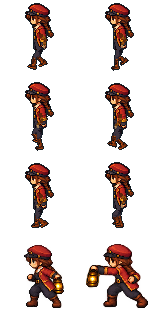
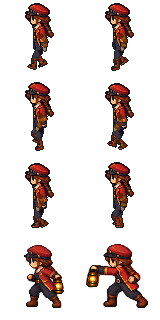
Restore Nell's fuller silhouette and increase her arm reach

diff --git a/src/art/nell-actor.ts b/src/art/nell-actor.ts
@@ -56,34 +56,34 @@ function surface(id:string,rings:SkinVertex[][],color:number,texture?:PixelTextu
 
 const acrossView=(direction:ActorDirection,c:number,s:number)=>direction==='front'?-c:direction==='back'?c:direction==='left'?-s:s;
 
-function limb(id:string,a:Point3,b:Point3,start:readonly[number,number],end:readonly[number,number],texture:PixelTexture,direction:ActorDirection):SpriteLayer {
+function limb(id:string,a:Point3,b:Point3,start:readonly[number,number],end:readonly[number,number],texture:PixelTexture,direction:ActorDirection,fullness=1):SpriteLayer {
   const dy=b.y-a.y,dz=b.z-a.z,d=Math.hypot(dy,dz),ny=-dz/d,nz=dy/d;
   const stations=[[-.09,.15],[0,.85],[.2,1.05],[.55,1],[.85,.98],[1,.8],[1.09,.15]] as const;
   return surface(id,stations.map(([t,round])=>Array.from({length:ROUND_SIDES},(_,i)=>{
     const angle=i/ROUND_SIDES*Math.PI*2,c=Math.cos(angle),s=Math.sin(angle),at=Math.max(0,Math.min(1,t));
-    const rx=(start[0]+(end[0]-start[0])*at)*round,ry=(start[1]+(end[1]-start[1])*at)*round;
+    const rx=(start[0]+(end[0]-start[0])*at)*round*fullness,ry=(start[1]+(end[1]-start[1])*at)*round*fullness;
     return {point:{x:a.x+c*rx,y:a.y+dy*t+s*ry*ny,z:a.z+dz*t+s*ry*nz},
       u:(acrossView(direction,c,s)+1)/2*texture.width,v:at*texture.height};
   })),0xffffff,texture);
 }
 
-function rounded(id:string,center:Point3,radii:readonly[number,number,number],color:number):SpriteLayer {
+function rounded(id:string,center:Point3,radii:readonly[number,number,number],color:number,scale=1):SpriteLayer {
   const rings=Array.from({length:7},(_,row)=>{
     const v=row/6,ring=Math.max(.04,Math.sin(v*Math.PI));
     return Array.from({length:ROUND_SIDES},(_,i)=>{const angle=i/ROUND_SIDES*Math.PI*2;
-      return {point:{x:center.x+Math.cos(angle)*radii[0]*ring,y:center.y+Math.sin(angle)*radii[1]*ring,z:center.z+Math.cos(v*Math.PI)*radii[2]},u:0,v:0};});
+      return {point:{x:center.x+Math.cos(angle)*radii[0]*ring*scale,y:center.y+Math.sin(angle)*radii[1]*ring*scale,z:center.z+Math.cos(v*Math.PI)*radii[2]*scale},u:0,v:0};});
   });
   return surface(id,rings,color);
 }
 
-function shoe(side:'left'|'right',foot:FootPose,texture:PixelTexture,direction:ActorDirection,scale:number):SpriteLayer {
+function shoe(side:'left'|'right',foot:FootPose,texture:PixelTexture,direction:ActorDirection,scale:number,widthScale:number):SpriteLayer {
   // Rounded heel, close ankle, raised instep and a low tapered toe. The two
   // sole contact endpoints remain at the accepted heel/toe pivots.
   const stations=[[-4,1.1,0,3.5],[-3.2,1.85,0,5.4],[-1.5,2.2,.05,6],[0,2.15,.15,5.4],[2.5,2.3,.15,4.1],[5.2,2.4,0,3.5],[6.9,1.6,0,2.8],[8,.3,0,1.5]] as const;
   const height=Math.max(...stations.map(station=>station[3]));
   const layer=surface(`${side}-foot`,stations.map(([y,width,bottom,top])=>Array.from({length:ROUND_SIDES},(_,i)=>{
     const angle=i/ROUND_SIDES*Math.PI*2,x=Math.cos(angle)*width,z=(bottom+top)/2+Math.sin(angle)*(top-bottom)/2;
-    const p=footPoint(foot,y*scale,z*scale);p.x+=x*scale;
+    const p=footPoint(foot,y*scale,z*scale);p.x+=x*scale*1.3*widthScale;
     const u=direction==='front'?-x/5+.5:direction==='back'?x/5+.5:direction==='left'?1-(y+4)/12:(y+4)/12;
     return {point:p,u:u*texture.width,v:(1-z/height)*texture.height};
   })),0xffffff,texture);
@@ -121,13 +121,13 @@ export function nellLayers(pose:ReferencePose,direction:ActorDirection,textures:
   // Native Nell has tall boots below the knee, rather than full-length trousers.
   const layers:SpriteLayer[]=[];
   for(const side of ['left','right'] as const){
-    const leg=pose[side],arm=pose.arms[side],inside=side==='right'?-1:1;
-    layers.push(limb(`${side}-thigh`,leg.hip,leg.knee,[2.8,2.6],[1.9,1.9],trousers,direction),
-      limb(`${side}-shin`,leg.knee,leg.ankle,[1.95,1.85],[1.7,1.55],boot,direction),shoe(side,leg.foot,boot,direction,pose.proportions.footScale),
-      limb(`${side}-upper-arm`,arm.shoulder,arm.elbow,[2.1,2.05],[1.6,1.55],sleeve,direction),
-      limb(`${side}-forearm`,arm.elbow,arm.wrist,[1.65,1.55],[1.2,1.15],sleeve,direction),
-      rounded(`${side}-hand`,arm.grip,[1.45,1.3,1.65],0xc59a68),
-      rounded(`${side}-hand`,{x:arm.grip.x+inside*1.1,y:arm.grip.y+.7,z:arm.grip.z+.2},[.65,.75,.85],0xb38758));
+    const leg=pose[side],arm=pose.arms[side],inside=side==='right'?-1:1,{armWidth,legWidth}=pose.proportions;
+    layers.push(limb(`${side}-thigh`,leg.hip,leg.knee,[4,3.5],[2.6,2.5],trousers,direction,legWidth),
+      limb(`${side}-shin`,leg.knee,leg.ankle,[2.5,2.25],[2.15,1.9],boot,direction,legWidth),shoe(side,leg.foot,boot,direction,pose.proportions.footScale,legWidth),
+      limb(`${side}-upper-arm`,arm.shoulder,arm.elbow,[2.8,2.6],[2.2,2.05],sleeve,direction,armWidth),
+      limb(`${side}-forearm`,arm.elbow,arm.wrist,[2.3,2.15],[1.75,1.65],sleeve,direction,armWidth),
+      rounded(`${side}-hand`,arm.grip,[1.85,1.65,2.05],0xc59a68,armWidth),
+      rounded(`${side}-hand`,{x:arm.grip.x+inside*1.45*armWidth,y:arm.grip.y+.7,z:arm.grip.z+.2},[.8,.9,1.05],0xb38758,armWidth));
   }
   const dy=NELL_PROPORTIONS.hipHeight-pose.hipHeight,bodyRect:readonly[number,number,number,number]=direction==='front'||direction==='back'?[33,27,14,22]:[34,27,12,22];
   layers.push(decal('torso',source,bodyRect,dy,4,direction),decal('head',head,[20,0,40,43],dy,7,direction));

diff --git a/src/dev/reference-actor.ts b/src/dev/reference-actor.ts
@@ -27,19 +27,19 @@ function legLayers(side:'left'|'right',leg:LegPose,colored:boolean,config:Readon
   const color=colored?LEG_COLORS[side]:0x778594,a=leg.ankle;
   const shoe=(profile:readonly (readonly [number,number])[],width:number,material:number)=>{
     const mesh=part(`${side}-foot`,profile,a.x,width,material);
-    mesh.vertices=mesh.vertices.map(p=>({...footPoint(leg.foot,p.y*config.footScale,p.z*config.footScale),x:a.x+(p.x-a.x)*config.footScale}));
+    mesh.vertices=mesh.vertices.map(p=>({...footPoint(leg.foot,p.y*config.footScale,p.z*config.footScale),x:a.x+(p.x-a.x)*config.footScale*config.legWidth}));
     return mesh;
   };
-  return [segment(`${side}-thigh`,leg.hip,leg.knee,5.5,5.5,color),segment(`${side}-shin`,leg.knee,a,4.5,4.5,color),
+  return [segment(`${side}-thigh`,leg.hip,leg.knee,5.5*config.legWidth,5.5*config.legWidth,color),segment(`${side}-shin`,leg.knee,a,4.5*config.legWidth,4.5*config.legWidth,color),
     shoe([[FOOT_HEEL,0],[FOOT_TOE,0],[FOOT_TOE,1.2],[FOOT_HEEL,1.2]],6.5,0x38434b),
     shoe([[-3.8,1.2],[8,1.2],[8,2.2],[6.5,3.3],[1,5],[-3,5]],6,colored?(side==='left'?0x438e94:0xb77a3e):0x966b48)];
 }
 
-function armLayers(side:'left'|'right',arm:ArmPose,colored:boolean):SpriteLayer[]{
-  const color=colored?LEG_COLORS[side]:0x8e9b9c,g=arm.grip;
-  return [segment(`${side}-upper-arm`,arm.shoulder,arm.elbow,4.5,4.5,color),
-    segment(`${side}-forearm`,arm.elbow,arm.wrist,4,4,colored?color:0x778594),
-    part(`${side}-hand`,[[g.y-1.7,g.z-1.6],[g.y+1.7,g.z-1.6],[g.y+1.7,g.z+1.6],[g.y-1.7,g.z+1.6]],g.x,4.5,0xe4c494)];
+function armLayers(side:'left'|'right',arm:ArmPose,colored:boolean,config:Readonly<RigProportions>):SpriteLayer[]{
+  const color=colored?LEG_COLORS[side]:0x8e9b9c,g=arm.grip,w=config.armWidth;
+  return [segment(`${side}-upper-arm`,arm.shoulder,arm.elbow,4.5*w,4.5*w,color),
+    segment(`${side}-forearm`,arm.elbow,arm.wrist,4*w,4*w,colored?color:0x778594),
+    part(`${side}-hand`,[[g.y-1.7*w,g.z-1.6*w],[g.y+1.7*w,g.z-1.6*w],[g.y+1.7*w,g.z+1.6*w],[g.y-1.7*w,g.z+1.6*w]],g.x,4.5*w,0xe4c494)];
 }
 
 function weaponLayers(weapon:WeaponPose):SpriteLayer[]{
@@ -86,5 +86,5 @@ export function referenceLayers(pose:ReferencePose=referenceRig(0),colored=true)
     else p.x*=config.shoulderHalfWidth/10;
   }
   return [...legLayers('left',pose.left,colored,config),...legLayers('right',pose.right,colored,config),torso,neck,head,nose,eyes,
-    ...(pose.weapon?weaponLayers(pose.weapon):[]),...armLayers('left',pose.arms.left,colored),...armLayers('right',pose.arms.right,colored)];
+    ...(pose.weapon?weaponLayers(pose.weapon):[]),...armLayers('left',pose.arms.left,colored,config),...armLayers('right',pose.arms.right,colored,config)];
 }

diff --git a/tests/e2e/animation-workshop.spec.ts b/tests/e2e/animation-workshop.spec.ts
@@ -100,9 +100,10 @@ for(const [device,viewport,dpr] of [['desktop',{width:1280,height:800},1.25],['p
       await review.getByRole('spinbutton',{name:'Leg bone',exact:true}).fill('5');await review.getByRole('spinbutton',{name:'Leg bone',exact:true}).press('Tab');
       await expect(review.locator('#reference-proportion-error')).toContainText('Legs cannot reach');
       await expect(review.getByRole('spinbutton',{name:'Leg bone',exact:true})).toHaveValue('9');
+      await review.getByRole('spinbutton',{name:'Arm thickness (x)',exact:true}).fill('1.2');await review.getByRole('spinbutton',{name:'Arm thickness (x)',exact:true}).press('Tab');
       const customEvent=page.waitForEvent('download');await review.getByRole('button',{name:'Export pose data',exact:true}).click();
       const custom=JSON.parse(await readFile((await(await customEvent).path())!,'utf8'));
-      expect(custom.proportions.hipHalfWidth).toBe(3.5);expect(custom.cycleDistance).toBe(24);
+      expect(custom.proportions.armWidth).toBe(1.2);expect(custom.proportions.hipHalfWidth).toBe(3.5);expect(custom.cycleDistance).toBe(24);
       await review.getByRole('button',{name:'Reset proportions',exact:true}).click();await nativeFrame(page,0);
       await review.locator('#reference-proportions summary').click();
       await review.getByRole('button',{name:'Joint guides',exact:true}).click();await review.getByRole('button',{name:'Next frame',exact:true}).click();await review.getByRole('button',{name:'Next frame',exact:true}).click();

diff --git a/src/art/rig-proportions.ts b/src/art/rig-proportions.ts
@@ -3,13 +3,13 @@ export interface RigProportions {
   legLength:number;hipHeight:number;hipRise:number;hipHalfWidth:number;
   strideDistance:number;footScale:number;swingHeight:number;
   shoulderHeight:number;shoulderHalfWidth:number;upperArmLength:number;forearmLength:number;
-  carryLift:number;torsoHeight:number;headScale:number;
+  carryLift:number;torsoHeight:number;headScale:number;armWidth:number;legWidth:number;
 }
 export const REFERENCE_PROPORTIONS:Readonly<RigProportions>={
   legLength:15,hipHeight:30.3,hipRise:2.4,hipHalfWidth:4,strideDistance:40,footScale:1,swingHeight:6,
-  shoulderHeight:14,shoulderHalfWidth:10,upperArmLength:9,forearmLength:8,carryLift:0,torsoHeight:17,headScale:1,
+  shoulderHeight:14,shoulderHalfWidth:10,upperArmLength:9,forearmLength:8,carryLift:0,torsoHeight:17,headScale:1,armWidth:1,legWidth:1,
 };
 export const NELL_PROPORTIONS:Readonly<RigProportions>={
   legLength:9,hipHeight:18.8,hipRise:.8,hipHalfWidth:3,strideDistance:24,footScale:.65,swingHeight:3.5,
-  shoulderHeight:18,shoulderHalfWidth:8,upperArmLength:7,forearmLength:6,carryLift:1,torsoHeight:22,headScale:1.7,
+  shoulderHeight:18,shoulderHalfWidth:9,upperArmLength:8,forearmLength:7,carryLift:4,torsoHeight:22,headScale:1.7,armWidth:1,legWidth:1,
 };

diff --git a/src/dev/animation-workshop.ts b/src/dev/animation-workshop.ts
@@ -15,6 +15,7 @@ const measurements:readonly [keyof RigProportions,string,number,number,number][]
   ['strideDistance','Stride distance',12,44,1],['footScale','Foot size',.4,1.2,.05],['swingHeight','Foot lift',1,8,.1],
   ['shoulderHeight','Shoulder above hip',8,24,.1],['shoulderHalfWidth','Shoulder spacing',5,12,.1],
   ['upperArmLength','Upper arm',4,12,.1],['forearmLength','Forearm',4,11,.1],['carryLift','Lantern lift',0,8,.1],
+  ['armWidth','Arm thickness (x)',.6,1.6,.05],['legWidth','Leg thickness (x)',.6,1.6,.05],
   ['torsoHeight','Torso height',12,24,.1],['headScale','Head size',.7,1.8,.05],
 ];
 const weaponName={none:'Unarmed',lantern:'Lantern (Nell)',lance:'Steam lance (Orrin)'} as const;

diff --git a/assets/characters/nell-rig.md b/assets/characters/nell-rig.md
@@ -1,6 +1,6 @@
 # Nell's reference-based walk
 
-`src/art/nell-actor.ts` uses the shared configurable gait solver with `NELL_PROPORTIONS` from `src/art/rig-proportions.ts`. Her two leg bones are 9 pixels each, hip baseline 18.8 pixels, hip rise 0.8 pixels, feet 65% of the mannequin's geometric dimensions and root travel 24 pixels per cycle. Shoulders sit 18 pixels above the hips and eight pixels either side of centre; upper arms/forearms are 7/6 pixels. Her right elbow bends to carry the native lantern at her waist. The weapon remains attached to the right grip in every view. This replaces the taller mannequin retarget and matches the compact native overalls/boot proportions without shrinking source artwork.
+`src/art/nell-actor.ts` uses the shared configurable gait solver with `NELL_PROPORTIONS` from `src/art/rig-proportions.ts`. Her two leg bones are 9 pixels each, hip baseline 18.8 pixels, hip rise 0.8 pixels, feet 65% of the mannequin's geometric dimensions and root travel 24 pixels per cycle. Shoulders sit 18 pixels above the hips and nine pixels either side of centre; upper arms/forearms are 8/7 pixels. Her right elbow bends to carry the native lantern at her waist. The weapon remains attached to the right grip in every view. This replaces the taller mannequin retarget and matches the compact native overalls/boot proportions without shrinking source artwork.
 
 Nell does not use the mannequin's rectangular limb, hand, foot or weapon meshes. Her clothing is built from rounded cross-sections with separate shoulder, upper-arm, elbow, forearm, thigh, calf and ankle contours. Rounded ends overlap at joints. Sleeves and trouser legs taper toward wrists and ankles. Gloves have rounded palms and separate thumbs. Boots have a narrow heel, raised instep, curved sole and a low rounded toe; both contact endpoints use the configured heel/toe pivots. These contours affect only the artwork, not bone lengths or foot contact timing.
 
@@ -15,3 +15,5 @@ Open `?dev=animation` and choose **Nell** to inspect the actual skin with joint/
 Run `node scripts/export-nell-animation.mjs` to bake all four six-frame walks into `public/art/animation/nell-*.png`. The exporter uses Vite's development transform and Python/Pillow, keeps the existing attack row intact, and writes only four small 160 x 320 pages. Builds consume those pages without running the authoring tools. Re-running the exporter must produce identical PNG bytes. Idle actors, portrait and Orrin's pages remain unchanged.
 
 `src/content/actor-motion.ts` owns the production stride contract: Nell's cycle spans 24 native pixels, matching her fixed heel/toe contacts; Orrin retains 60 pixels. Keep the authoring stride and runtime distance in agreement when changing the gait.
+
+Nell has full overall thighs, substantial boot shafts and broader rounded sleeves/gloves. Her feet keep their compact heel-to-toe length with a wider upper. Shoulder spacing and 8/7-pixel arm bones preserve a visible arm silhouette; carrying lift bends the longer right arm while retaining the lantern height. These character-specific widths are independent of the mannequin and do not change her compact hip/head height.

diff --git a/AGENTS.md b/AGENTS.md
@@ -48,4 +48,4 @@ The twelve NPCs and Inspector share the party's compact pixel style. Supporting-
 
 The reference supplies motion for Nell, not her artwork solids. Nell has independently contoured sleeves/trousers, overlapping rounded joints, shaped gloves/thumbs and boots with a narrow heel, instep and tapered toe. Do not reuse the mannequin's rectangular limb/hand/foot meshes for character art. Her native directional lantern cutouts attach to a bent right arm at waist height, with depth occlusion and pitch around the registered right grip. Keep source RGB and native pixel sizes intact; render the detailed art from these character-specific shapes.
 
-The reference rig accepts explicit `RigProportions` with independent mannequin/Nell settings in Animation. Keep foot contacts, floor guides, stride and all exported joints consistent with the selected measurements. Reject unreachable combinations instead of stretching bones or producing NaN. Nell uses the compact preset (9-pixel legs, 7/6-pixel arms, 65% foot geometry, 24-pixel stride); preserve her native head/jacket artwork and original resting placement. Proportion controls are session-only; pose JSON includes the complete configuration. Never import the authoring rig into production to obtain the stride constant.
+The reference rig accepts explicit `RigProportions` with independent mannequin/Nell settings in Animation. Keep foot contacts, floor guides, stride and all exported joints consistent with the selected measurements. Reject unreachable combinations instead of stretching bones or producing NaN. Nell uses the compact preset (9-pixel legs, 8/7-pixel arms, 65% foot geometry, 24-pixel stride); preserve her native head/jacket artwork and original resting placement. Proportion controls are session-only; pose JSON includes the complete configuration. Never import the authoring rig into production to obtain the stride constant.

diff --git a/assets/characters/reference-animation.md b/assets/characters/reference-animation.md
@@ -47,4 +47,6 @@ The lightweight kinematic tests cover support, floor clearance, constant world-s
 
 Expand **Proportions / native pixels** in Animation to edit native measurements. **Match Nell proportions** fits the mannequin to her compact skeleton; **Reset proportions** restores the current skin's defaults. Mannequin and Nell edits remain independent and session-only. Nell retains native face/jacket pixels, so her head/torso size controls are disabled. Configuration affects authoring geometry, not runtime image scaling. Pose JSON version 5 includes `proportions`, the configured cycle distance and every solved pose. PNG exports use the same settings and layer visibility. Changing the workshop does not write campaign saves or rebuild production pages.
 
-Nell's preset uses 9-pixel leg bones, 18.8-pixel hips, 0.8-pixel rise, 65% geometric foot size, 7/6-pixel arm bones and 24-pixel stride. Her runtime stride is registered separately in `src/content/actor-motion.ts`; keep it synchronized with the preset when baking her pages.
+Nell's preset uses 9-pixel leg bones, 18.8-pixel hips, 0.8-pixel rise, 65% geometric foot size, 8/7-pixel arm bones and 24-pixel stride. Her runtime stride is registered separately in `src/content/actor-motion.ts`; keep it synchronized with the preset when baking her pages.
+
+**Arm thickness (x)** and **Leg thickness (x)** adjust each skin's designed limb widths independently of its skeleton. Arms include sleeve/glove volume; legs include trouser, boot-shaft and shoe width. These multipliers leave bone lengths, sole contact length and root travel unchanged and are included in pose exports. Nell's default silhouettes are fuller than the mannequin's own defaults.
